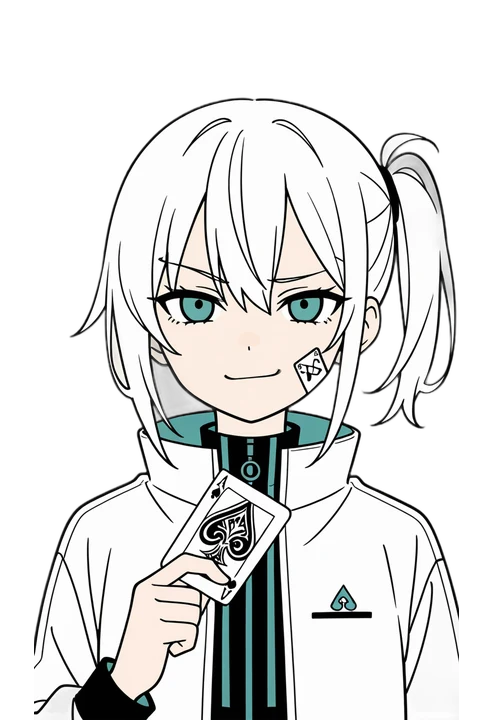
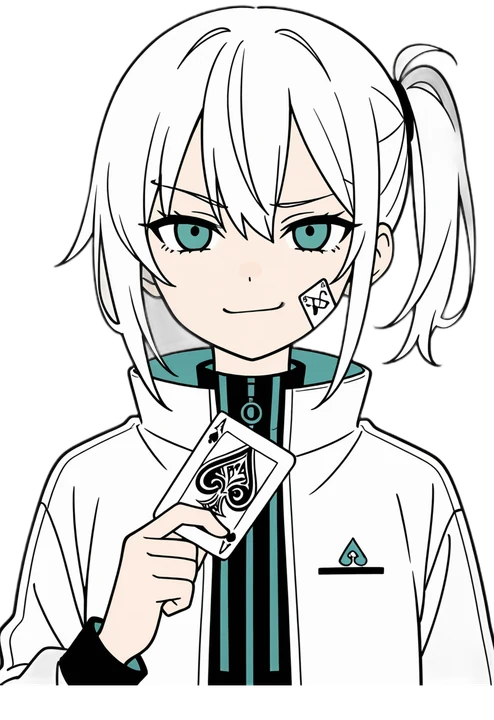
fix: 浅葱だけ頭の位置が低かったので、頭のてっぺんをほかの子とそろえて切り直す。山吹は名字にしか聞こえないので、名前を「菜花」に (id は yamabuki のまま)

diff --git a/three-play.html b/three-play.html
@@ -3255,7 +3255,7 @@
       "./js3d/aidecks.js": "./js3d/aidecks.js?v=8d249240bd",
       "./js3d/arena.js": "./js3d/arena.js?v=ef66a1e5bb",
       "./js3d/audio.js": "./js3d/audio.js?v=28a4f522ba",
-      "./js3d/avatar.js": "./js3d/avatar.js?v=776bba73ce",
+      "./js3d/avatar.js": "./js3d/avatar.js?v=e2df1d18e7",
       "./js3d/backdrops.js": "./js3d/backdrops.js?v=90faf9612d",
       "./js3d/board.js": "./js3d/board.js?v=9fe57e2090",
       "./js3d/card.js": "./js3d/card.js?v=6d8083e5b7",
@@ -3301,7 +3301,7 @@
       "./js3d/replays-ui.js": "./js3d/replays-ui.js?v=9a6a4ca786",
       "./js3d/replays.js": "./js3d/replays.js?v=2a8c9e69b5",
       "./js3d/review.js": "./js3d/review.js?v=34f174153b",
-      "./js3d/rewards.js": "./js3d/rewards.js?v=8e04e0d940",
+      "./js3d/rewards.js": "./js3d/rewards.js?v=516d979ddd",
       "./js3d/room.js": "./js3d/room.js?v=c34129de95",
       "./js3d/roomui.js": "./js3d/roomui.js?v=20a6a255a0",
       "./js3d/run-ui.js": "./js3d/run-ui.js?v=bc9741dc10",
@@ -3337,7 +3337,7 @@
   <link rel="modulepreload" href="js3d/playlog.js?v=90aaffedee">
   <link rel="modulepreload" href="js3d/feel.js?v=83bdf7f262">
   <link rel="modulepreload" href="js3d/spectate.js?v=64e3111a2f">
-  <link rel="modulepreload" href="js3d/avatar.js?v=776bba73ce">
+  <link rel="modulepreload" href="js3d/avatar.js?v=e2df1d18e7">
   <link rel="modulepreload" href="js3d/motion.js?v=36861b0081">
   <link rel="modulepreload" href="js3d/gacha.js?v=ce3d4f3faa">
   <link rel="modulepreload" href="js3d/chips.js?v=e67e280b76">
@@ -3362,7 +3362,7 @@
   <link rel="modulepreload" href="js3d/settings.js?v=3458521614">
   <link rel="modulepreload" href="js3d/stats.js?v=e2b9647dba">
   <link rel="modulepreload" href="js3d/stats-data.js?v=bcf7d5e977">
-  <link rel="modulepreload" href="js3d/rewards.js?v=8e04e0d940">
+  <link rel="modulepreload" href="js3d/rewards.js?v=516d979ddd">
   <link rel="modulepreload" href="js3d/gachafx.js?v=3d15a2226f">
   <link rel="modulepreload" href="js3d/cosmetics-ui.js?v=61977c6f7c">
   <link rel="modulepreload" href="js3d/cosmetics-mode.js?v=08569535e1">

diff --git a/js3d/rewards.js b/js3d/rewards.js
@@ -68,7 +68,7 @@ export const COSMETICS = {
   ccolor: [['default', 'PROTOCOL'], ['gold', 'GOLD'], ['cyan', 'CYAN'], ['rainbow', 'RAINBOW'], ['lime', 'LIME'], ['violet', 'VIOLET'], ['ember', 'EMBER']],
   victory: [['default', 'STANDARD'], ['aurora', 'AURORA']],
   /* 対戦のそばのキャラ (avatar.js)。紫苑ははじめから、ほかはガチャ */
-  avatar: [['shion', '紫苑'], ['asagi', '浅葱'], ['yamabuki', '山吹'], ['nadeshiko', '撫子'],
+  avatar: [['shion', '紫苑'], ['asagi', '浅葱'], ['yamabuki', '菜花'], ['nadeshiko', '撫子'],
     /* ゲスト (VOICEVOX のキャラ・声つき) */
     ['zundamon', 'ずんだもん'], ['metan', '四国めたん'], ['tsumugi', '春日部つむぎ'], ['whitecul', 'WhiteCUL']],
   /* 対戦中の名札の枠 (相手にも見える) */

diff --git a/js3d/avatar.js b/js3d/avatar.js
@@ -90,7 +90,7 @@ export const AVATARS = {
     }
   },
   yamabuki: {
-    name: '山吹', color: '#ffc94a',
+    name: '菜花', color: '#ffc94a',   /* id は yamabuki のまま (持っている記録が id で残っているため) */
     lines: {
       rearrange: ['ぐるっと入れ替え！', 'シャッフルだー！'],
       wipe: ['ぜーんぶ吹っ飛べ！', '大掃除だー！'],
